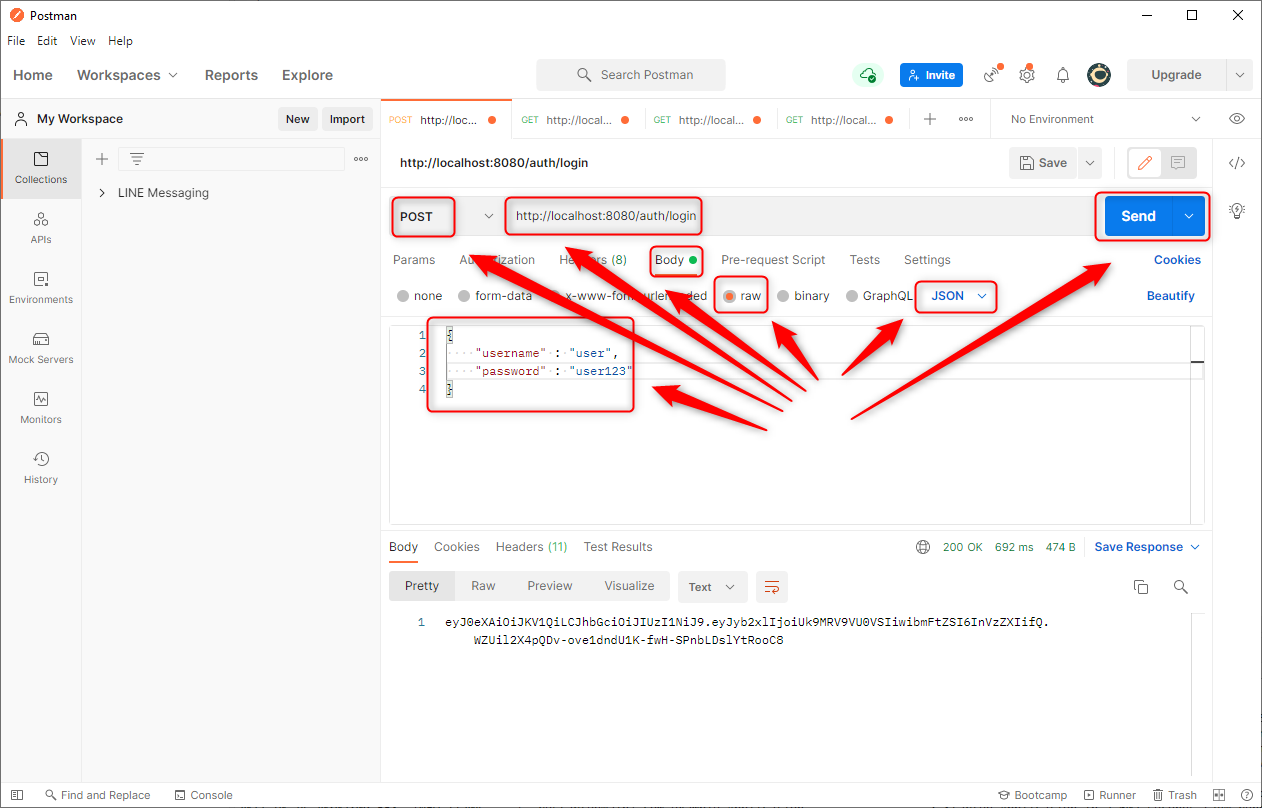
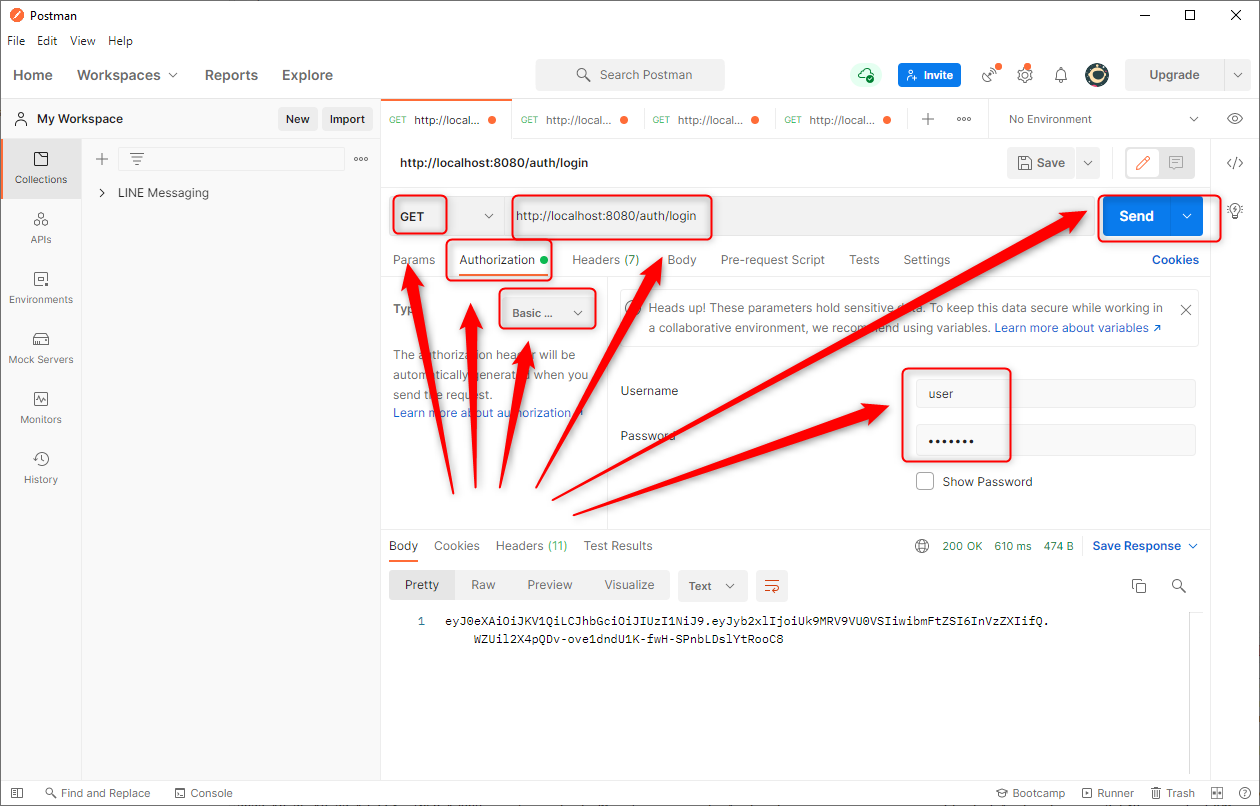
Update project spring-security-oauth2-rest-basic

diff --git a/spring-boot/others/security/authentication-authorization/no-sso/oauth2/authentication/spring-security-oauth2-rest-basic/README.md b/spring-boot/others/security/authentication-authorization/no-sso/oauth2/authentication/spring-security-oauth2-rest-basic/README.md
@@ -2,11 +2,11 @@ DESCRIPTION
 -----------
 
 ##### Goal
-The goal of this project is to present how to implement **Custom authentication and OAuth2 authorization** using **Java** application with **Spring Boot** framework. Custom authentication is based on **Spring Security** and enables logging in by sending "username" and "password" as JSON in the body of POST request. OAuth2 authorization is also based on **Spring Security** and checks if role provided in token is valid for requested resource.
+The goal of this project is to present how to implement **Basic Authentication and OAuth2 Authorization** using **Java** application with **Spring Boot** framework. Basic Authentication is based on **Spring Security**. OAuth2 Authorization is also based on **Spring Security** and checks if role provided in token is valid for requested resource.
 
 ##### Flow
 The following flow takes place in this project:
-1. User uses any Client API (for instance Postman) for sending POST request to Server for token. Values of "username" and "password" are sent as JSON in the body of request 
+1. User uses any Client API (for instance Postman) for sending GET request to Server for token. Values of "username" and "password" are sent as Basic Authentication
 1. Server validates credentials. If everything is ok then token is sent back to Client API
 1. Client API displays token to the User 
 1. User uses any Client API for sending GET request to Server for secured content. Token is sent as Bearer Authorization
@@ -42,11 +42,11 @@ USAGE
 
 Usage steps:
 1. Start application with `mvn spring-boot:run`
-1. Send POST request (JSON with credentials: "username" : "user", "password" : "user123") with Postman to URL `http://localhost:8080/auth/login`
+1. Send GET request (Basic Authentication with credentials: "username" : "user", "password" : "user123") with Postman to URL `http://localhost:8080/auth/login`
 1. Send GET request with Postman to URL `http://localhost:8080/`
 1. Send GET request (with token as Bearer Authorization) with Postman to URL `http://localhost:8080/user`
 1. Send GET request (with token as Bearer Authorization)  with Postman to URL `http://localhost:8080/admin`
-1. Send POST request (JSON with credentials: "username" : "admin", "password" : "admin123") with Postman to URL `http://localhost:8080/auth/login`
+1. Send GET request (Basic Authentication with credentials: "username" : "admin", "password" : "admin123") with Postman to URL `http://localhost:8080/auth/login`
 1. Send GET request with Postman to URL `http://localhost:8080/`
 1. Send GET request (with token as Bearer Authorization)  with Postman to URL `http://localhost:8080/user`
 1. Send GET request (with token as Bearer Authorization)  with Postman to URL `http://localhost:8080/admin`
